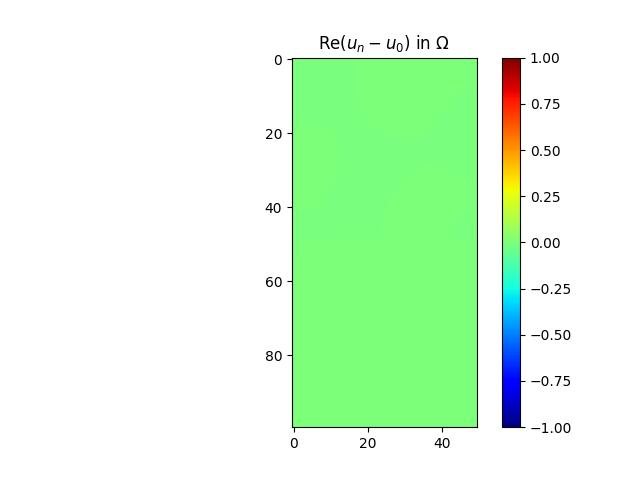
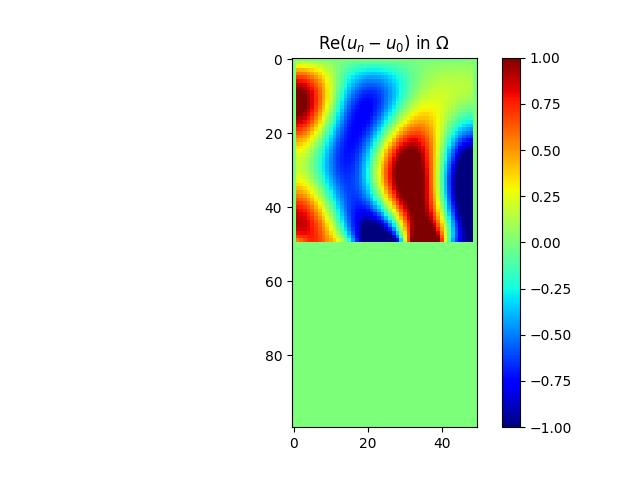
dgx

Changed region(s): [[0.4375, 0.125, 0.75, 0.5312]]

diff --git a/demo_control_polycopie2023.py b/demo_control_polycopie2023.py
@@ -161,7 +161,7 @@ def optimization_procedure(domain_omega, spacestep, omega, f, f_dir, f_neu, f_ro
     (M, N) = np.shape(domain_omega)
     numb_iter = 4
     energy = np.zeros((numb_iter, 1), dtype=np.float64)
-    while k < numb_iter and mu > 1e-5:
+    while k < numb_iter and mu > mu_min:
         
         u = processing.solve_helmholtz(domain_omega, spacestep, omega, f, f_dir, f_neu, f_rob,
                                        beta_pde, alpha_pde, alpha_dir, beta_neu, beta_rob, chi*Alpha)
@@ -171,6 +171,7 @@ def optimization_procedure(domain_omega, spacestep, omega, f, f_dir, f_neu, f_ro
         energy[k] = ene
         grad = -np.real(Alpha * p * u)
         while ene >= energy[k] and mu > mu_min:
+            print(ene)
             new_chi = chi.copy()
             new_chi = compute_gradient_descent(new_chi, grad, domain_omega, mu)
             new_chi = compute_projected(new_chi, domain_omega, V_obj)
@@ -256,10 +257,12 @@ if __name__ == '__main__':
 
     # -- define material density matrix
     chi = preprocessing._set_chi(M, N, x, y)
+    #chi = np.random.choice([0, 1], size=chi.shape)
+    
     chi = preprocessing.set2zero(chi, domain_omega)
 
     # -- define absorbing material
-    Alpha = 50.0 - 60.0 * 1j
+    Alpha = 10.0 - 10.0 * 1j
     # -- this is the function you have written during your project
     #import compute_alpha
     #Alpha = compute_alpha.compute_alpha(...)
@@ -273,7 +276,8 @@ if __name__ == '__main__':
                 S += 1
     V_0 = 1  # initial volume of the domain
     V_obj = np.sum(np.sum(chi)) / S  # constraint on the density
-    mu = 1e-3  # initial gradient step
+    V_obj = 0.5
+    mu = 1  # initial gradient step
     #mu_min = 1e-5  # minimal gradient step
     mu_min = 1e-10 # minimal gradient step
     mu1 = 10**(-5)  # parameter of the volume functional
